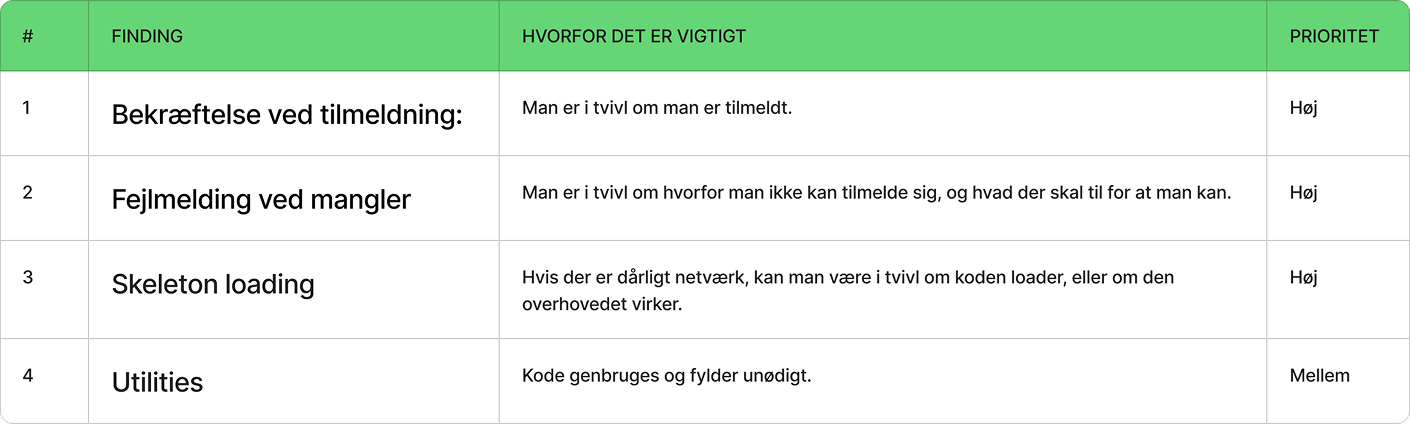
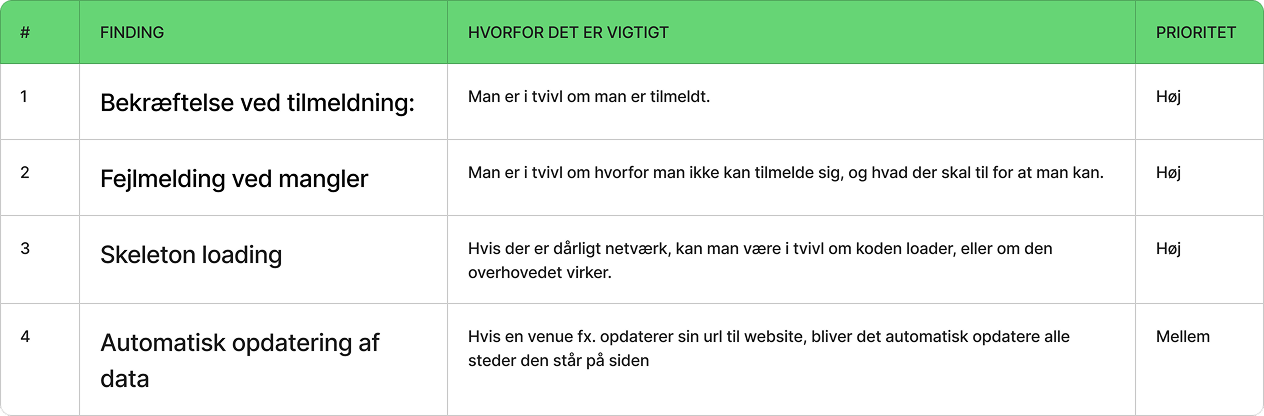
chore: update code structure for better readability and maintainability

diff --git a/src/data/projects.js b/src/data/projects.js
@@ -41,14 +41,14 @@ const projects = [
     image4c: `${import.meta.env.BASE_URL}Vuuhformular.png`,
     title4d: "Test-ordre flow",
     description4d:
-      "Vuuhs løsning: Vuuhs nuværende løsning giver brugeren ingen indikation til, at man skal lave en test-ordre*, efter man har sat Shopify op. Hvis dette step ikke bliver opfyldt, så kan brugeren ikke være sikker på, at Vuuh er opsat korrekt og brugeren får aldrig sin success oplevelse, med at have gennemført opsætningen. Vores løsning: Efter successfuldt download af test-ordre skal få brugeren en loading side for at forsikre brugeren om, at dette blot er en test-ordre, og at denne derfor ikke vil komme frem i deres webshop. Efter loading indikator, får man en pop-up Order is successfully downloaded!",
+      "Vuuhs nuværende “test-ordre flow” giver ingen indikation til, at man skal lave en test-ordre, efter man har connected Vuuh med Shopify. Hvis dette step ikke bliver opfyldt, kan hverken Vuuh eller brugeren være sikker på, at det rent teknisk er opsat korrekt. I vores optimerede “test-ordre flow” får brugeren en loading side efter successfuldt download af test-ordre. Sådan sikrer vi brugeren om, at dette blot er en test-ordre, og at den derfor ikke vil blive vist i deres webshop. Efter en loading-indikator, vises et overlay med “Order is successfully downloaded!“.",
     image4d: `${import.meta.env.BASE_URL}Vuuhtestordre.png`,
     title5: "Tværgående mønstre",
     description5:
-      "Den nuværende onboarding består af alt for mange steps. Brugeren bliver ikke guided igennem, og et er ikke intuitivt, hvad næste step er. Brugeren støder gentagende gange på steps, som ser ud til at være det sidste og rammer standstill. Et gennemgående problem er at forhindre fejl. Der mangler guidence og færre steps. Det skal gøres så simpelt som muligt. Disse gennemgående problemer ligger sig op ad 2 heuristikker: 5 Error Prevention og 7 Flexibility and Efficiency of use. Det er vigtigt at få rettet op på for et gnidningsfrit flow",
+      "Den nuværende onboarding består af alt for mange steps. Brugeren bliver ikke guided nok og det er ikke intuitivt, hvad næste step er. Især ikke for ikke-erfarne brugere. Brugeren støder gentagende gange på steps, som ser ud til at være det sidste og rammer standstill. Et gennemgående problem er at forhindre fejl. Der mangler guidence og færre steps. Det skal gøres så simpelt som muligt. Vuuhs onboarding tager heller ikke nok hensyn til forskellige typer brugere og deres erfaring. Vi overvejede undervejs at tilføje en step-tracker, som kunne give brugeren et overblik over processen. Vi blev dog enige med Vuuh om, at det ikke var nødvendigt, og at vores guided steps står stærkt i sig selv.",
     title6: "Fokus fremadrettet",
     description6:
-      "Hvordan sørger man for at onboarding er accessible for både persona 1 og 2? Fremadrettet ville vi lægge fokus på hvordan erfarne brugere som persona 2 kan skippe mulige steps, for Flexibility and Efficiency of use, og dermed ramme en bredere målgruppe. Implementer guided-steps til resten af flow. Fremadrettet ser vi at vores forslag til guided-steps-onboarding implementeres til resten af flowet, eksempelvis ved de efterfølgende steps “connect to brands”. Forslag til gavn for begge personaer. En feature som kan gavne både persona 1 og 2 er en step-tracker som giver brugeren Visibility of System Status. En step tracker i toppen af interfacet, som viser hvor langt brugeren er i flowet, og hvilke steps der kommer næst.",
+      "Hvordan sørger man for, at onboarding er tilgængelig for både erfarne og ikke-erfarne brugere? Fremadrettet ville vi lægge fokus på hvordan erfarne brugere kan skippe mulige steps, for fleksibilitet og effektivitet, og dermed ramme en bredere målgruppe. Fremadrettet ser vi at vores forslag til guided-steps-onboarding implementeres til resten af flowet, eksempelvis ved de efterfølgende steps med “connect to brands”.",
   },
 
   {
@@ -58,37 +58,53 @@ const projects = [
     year: "2026",
     summary: "En personlig portfolio bygget med React, Vite og GitHub Pages.",
     description:
-      "Optimeringsprojekt med fokus på tilmeldningsflow og fetch af Supabase data. Fokus på fejlhåndtering i form af skeleton, 404 page og error page. Fokus på accessibility, i form af semantisk html.",
+      "Mellemrum er en fiktiv webapp, designet til at samle koncerter, talks, workshops og fællesskaber, så du lettere kan opdage noget, du ikke allerede kendte.",
     tags: ["React", "Supabase", "Fejlhåndtering"],
     image: `${import.meta.env.BASE_URL}Mellemrummockup.png`,
     links: [
       {
-        label: "Live site",
+        label: "Live Site",
         href: "https://juliewboecher.github.io/mellemrum/",
       },
       {
-        label: "GitHub repo",
+        label: "GitHub Repository",
         href: "https://github.com/juliewboecher/mellemrum.git",
+      },
+      {
+        label: "Teknisk Audit",
+        href: "https://drive.google.com/file/d/1miw44MEK-2fqgR7NK-7q3QrIb94hoSzQ/view?usp=sharing",
       },
     ],
     title2: "Udfordring",
+    description2:
+      "Det største problem med Mellemrum var tilmeldingsflowet. Tilmeldinger blev ikke gemt i en database. Brugeren modtog heller ingen bekræftelse ved tilmelding, og der var ingen måde at se sin tilmelding på efterfølgende. Derudover manglede der forebyggende fejlhåndtering, hvis der opstod fejl under hentning af data eller under tilmelding. Disse fejl ville gøre brugeren utryg og forvirret ved brug af appen, og derfor ikke gøre processen nemmere for brugeren, som egentlig er meningen med appen.",
     title3: "Undersøgelse og prioritering",
+    description3:
+      "Jeg har valgt at fremhæve 4 optimeringer, men alle optimeringer kan ses i “Teknisk Audit“ eller i “GitHub Repository“. Optimeringerne er fundet ud fra en teknisk gennemgang af koden samt den deployet løsning, hvor jeg slog ned på de største problemer i flowet. Jeg har prioriteret optimeringerne ud fra, hvilke der vil have størst effekt på brugeroplevelsen.",
     image2: `${import.meta.env.BASE_URL}Mellemrumprio.png`,
     title4: "Løsning og dokumentation",
     title4a: "Beskræftelse ved tilmelding",
     description4a:
-      "Område: Robusthed - Fejlhåndtering og UI-states Fund og evidens. Tilmelding - Ingen bekræftigelse når man har trykket tilmeld. Forslag til løsning: Tilføj en succesmelding når man har trykket på tilmeld. Verifikation:Gennemfør tilmelding og se en “succes” besked vises ved tryk på “tilmeld”",
+      "Her var mit fokus at skabe robusthed og fejlhåndtering af UI-states. Ved tilmelding fik brugeren ingen bekræftigelse efter tryk på tilmeld. Min løsning til dette var at tilføje en succesmelding når man har trykket på tilmeld. Det kan ses inplementeret ved at tilmelde sig og derefter se en bekræftelse. På den måde er brugeren ikke i tvivl om de fik trykket på tilmeld.",
+    image4a: `${import.meta.env.BASE_URL}Mellemrumtilmelding.png`,
     title4b: "Fejlmelding ved mangler",
     description4b:
-      "Område: Robusthed - Fejlhåndtering og UI-states. Fund og evidens: Tilmelding - Fejlmelding, hvis man mangler at udfylde enten mail eller navn, når man trykker på tilmeld. Forslag til løsning: Tilføj henholdsvis en melding ved indput til navn og indput til mail, som vises hvis der mangler at blive udfyldt. Verifikation:Gennemfør tilmelding og se en “succes” besked vises ved tryk på “tilmeld”",
+      "Her er problemet igen indefor området robusthed og sikker fejlhåndtering af UI-states. Hvis brugeren manglede at udfylde enten mail eller navn, når de trykkede på tilmeld, var der ingen fejlmelding af dette. Min løsning var at tilføje henholdsvis en fejlmelding ved indput til navn og indput til mail, som vises hvis der mangler at blive udfyldt. Nu efterlades brugeren ikke med tvivl om, hvorvidt de har udfyldt de nødvendige felter.",
+    image4b: `${import.meta.env.BASE_URL}Mellemrummangler.png`,
     title4c: "Skeleton loading",
     description4c:
-      "Område: Performance - Mål og verificér i praksis. Fund og evidens: Loading, fetching af kode. Især billeder og event cards. Forslag til løsning. Skeleton, viser et skelet for hvad der loades Verifikation:",
-    title4d: "Utilities",
+      "Indenfor performance af koden fandt jeg en usikker håndtering af loading og fetching af kode. Ved loading af billeder og event cards, var der ingen indikation af at noget var ved at blive hentet. Derfor implementerede jeg skeleton loading, som viser et skelet for hvad der loades. Derfor er brugeren ikke længere i tvivl om, at noget bliver hentet, hvis netværket er svagt, eller der sker en anden fejl i hentning af data.",
+    image4c: `${import.meta.env.BASE_URL}Mellemrumskeletonkode.png`,
+    title4d: "Automatisering af opdatering af data",
     description4d:
-      "Område: Datamodel og relationer - Supabase. Fund og evidens: Genbrug af funktioner - Nogle funktioner og states genbruges på flere pages. Forslag til løsning: Opret services og utilities mappe med js fil til funktioner og states som genbruges, som så kan importeres hvor de skal bruges.Verifikation:",
+      "Her fandt jeg indenfor relationen til Supabase et potentiale for at automatisere opdateringen af data. Hvis en venue opdaterer sit navn eller url til website, så ændres det ikke automatisk alle steder hvor den venue optræder. For at løse dette, implementerede jeg både i HomePage.jsx og EventPage.jsx, en fetching der lytter efter ændringer i venue data og automatisk opdaterer alle steder, hvor denne venue data bliver brugt.",
+    image4d: `${import.meta.env.BASE_URL}Mellemrumauto.png`,
     title5: "Tværgående mønstre",
+    description5:
+      "Overordnet fandt jeg ud af, at Mellemrum manglede overblik til brugeren og bekræftelse og tryghed ved tilmelding. Derudover manglede der en sikker håndtering af fejl i dataflowet. Disse mangler gjorde det usikkert for brugeren at bruge appen.",
     title6: "Fokus fremadrettet",
+    description6:
+      "Fremadrettet ville jeg implementere resten af mine findings fra “Teknisk Audit“. Derudover ville jeg implementere en log-ind-funktion, både for brugeren og for venues. På den måde kan jeg skjule tilmeldinger for brugerne, så de kun kan se antal tilmeldinger, frem for at vise brugeres data på en offentlig side.",
   },
   {
     id: 3,

diff --git a/src/components/ProjectCard.jsx b/src/components/ProjectCard.jsx
@@ -11,16 +11,16 @@ function ProjectCard({ project }) {
         <div className="project-card-image">
           <img src={image} alt={title} className="project-image" />
         </div>
-      </Link>
-      
-      <div className="project-text">
-        <h2>{title}</h2>
-        <div className="project-detail-tags">
-          {tags.map((tag) => (
-            <span key={tag}>{tag}</span>
-          ))}
+
+        <div className="project-text">
+          <h2>{title}</h2>
+          <div className="project-detail-tags">
+            {tags.map((tag) => (
+              <span key={tag}>{tag}</span>
+            ))}
+          </div>
         </div>
-      </div>
+      </Link>
       <ul className="project-links">
         {links.map((link) => (
           <li key={link.label}>
